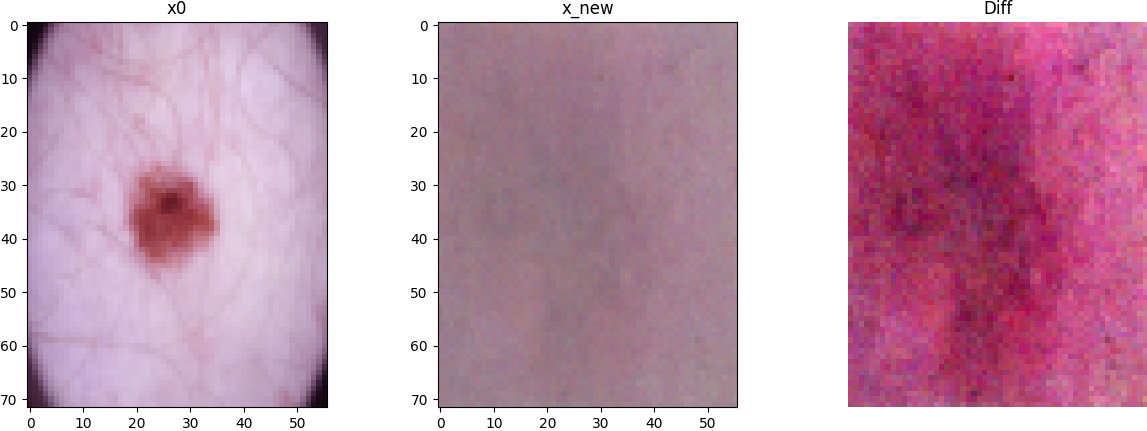
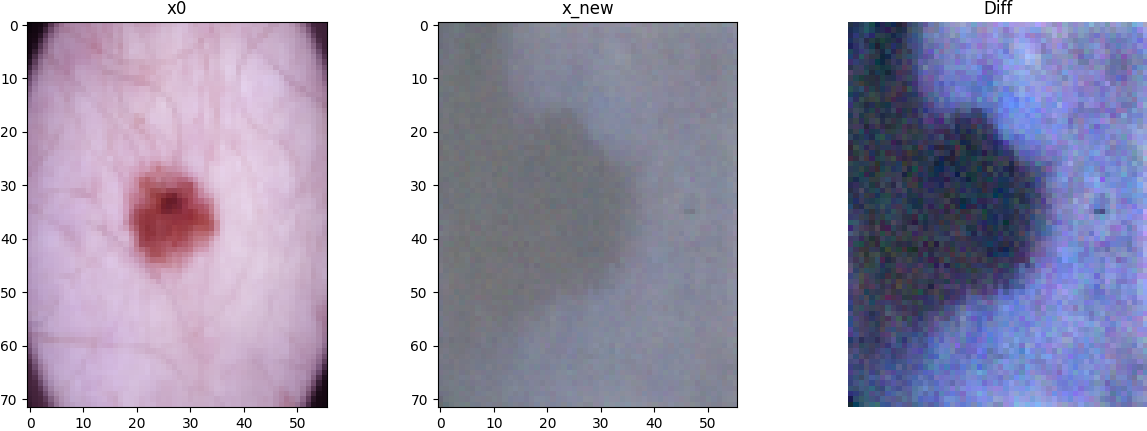
fixes

diff --git a/inference.py b/inference.py
@@ -14,6 +14,9 @@ from model import UNet
 
 from utils import *
 
+# clear cache 
+torch.cuda.empty_cache()
+
 
 # init
 device = torch.device('cuda' if torch.cuda.is_available() else 'cpu')
@@ -34,8 +37,8 @@ ddim = DiffusionImplicit(img_size=img_size, device=device)
 
 # 1. Get an image
 train_loader, val_loader, test_loader = prepare_dataloader(batch_size, label='shortcut', keep_label=1)
-images, labels  = next(iter(test_loader))
-L = torch.Tensor([100]).long().to(device)
+images, labels  = next(iter(val_loader))
+L = torch.Tensor([50,100,150,200,250,300,350,400,450]).long().to(device)
 x0 = images[0].unsqueeze(0).to(device) # add batch dimenstion
 
 # 2. DDPM forward process that image up to a timestep t: 1<L<T
@@ -47,34 +50,27 @@ model.eval()
 model.to(device)
 model.load_state_dict(torch.load('models/ddpm/weights.pt', map_location=device, weights_only=False)) # load the given model
 
-x_new = ddim.p_sample_loop(model=model, batch_size=xt.shape[0], partly_noised=xt, L=L.item())
+Lsize = L.shape[0]
+fig, axs = plt.subplots(Lsize, 4, figsize=(10,4*Lsize))
+x_new = torch.zeros_like(x0).repeat(Lsize,1,1,1)
+for i, l in enumerate(L):
+    x_new[i] = ddim.p_sample_loop(model=model, batch_size=1, partly_noised=xt[i].unsqueeze(0), L=l.item())
+    img1 = im_normalize(tens2image(x0.cpu()))
+    img2 = im_normalize(tens2image(xt[i].cpu()))
+    img3 = im_normalize(tens2image(x_new[i].cpu()))
+    diff_img = np.linalg.norm( img1 - img3, axis=2)
+    img4 = im_normalize( diff_img )
+
+    im1 = axs[i,0].imshow(img1)
+    im2 = axs[i,1].imshow(img2)
+    im3 = axs[i,2].imshow(img3)
+    im4 = axs[i,3].imshow(img4, cmap='jet')
+    fig.colorbar(im4, ax=axs[i,3])
 
 
-# 4. Calculate difference
-diff_img = (x_new - x0)**2
-
-
-
-fig, axs = plt.subplots(1,4, figsize=(20,5))
-
-# print(x0.shape, type(x0))
-# print(xt.shape, type(xt))
-# print(x_new.shape, type(x_new))
-# print(diff_img.shape, type(diff_img))
-
-
-im1 = axs[0].imshow(im_normalize(tens2image(x0.cpu())))
-fig.colorbar(im1, ax=axs[0])
-im2 = axs[1].imshow(im_normalize(tens2image(xt.cpu())))
-fig.colorbar(im2, ax=axs[1])
-im3 = axs[2].imshow(im_normalize(tens2image(x_new.cpu())))
-fig.colorbar(im3, ax=axs[2])
-im4 = axs[3].imshow(im_normalize(tens2image(diff_img.cpu())))
-fig.colorbar(im4, ax=axs[3])
-
-titles = ["Original", f"Noised to t={L.item()}", "Denoised", "Diff image"]
-for i, title in enumerate(titles):
-    axs[i].set_title(title)
+    titles = ["Original", f"Noised to t={l}", "Denoised", "Diff image"]
+    for j, title in enumerate(titles):
+        axs[i,j].set_title(title)
 
 plt.tight_layout()
 plt.savefig("assets/inference.png")

diff --git a/train.py b/train.py
@@ -31,7 +31,15 @@ def train(img_size, device='cpu', T=500, input_channels=3, channels=32, time_dim
           batch_size=100, lr=1e-3, num_epochs=30, experiment_name="ddpm", show=False):
     """Implements algrorithm 1 (Training) from the ddpm paper at page 4"""
     create_result_folders(experiment_name)
-    train_loader, val_loader, test_loader = prepare_dataloader(batch_size, label='shortcut', keep_label=0)
+
+    transform = transforms.Compose([
+                                transforms.Resize((img_size[0], img_size[1])), 
+                                transforms.ToTensor(),
+                                transforms.Normalize((0.5,), (0.5,)),
+                                # transforms.ColorJitter(brightness=0.3, contrast=0.3),
+                                transforms.RandomAffine(degrees=180)#, scale=(0.8,1.2))
+                 ])
+    train_loader, val_loader, test_loader = prepare_dataloader(batch_size, label='shortcut', keep_label=0, transform=transform)
 
     model = UNet(img_size=img_size, c_in=input_channels, c_out=input_channels, 
                  time_dim=time_dim,channels=channels, device=device).to(device)
@@ -82,7 +90,7 @@ def main():
     train(batch_size=batch_size , 
           device=device, 
           num_epochs=1000000,
-          img_size=np.array([size_w, size_h]))
+          img_size=np.array([size_h, size_w]))
 
 if __name__ == '__main__':
     main()

diff --git a/utils.py b/utils.py
@@ -22,16 +22,9 @@ batch_size = config['batch_size']
 size_w, size_h = config["size"][0], config["size"][1]
 img_size = np.array([size_w, size_h])
 
-def prepare_dataloader(batch_size=batch_size, val_batch_size=batch_size, label="lesion", keep_label=None):
+def prepare_dataloader(batch_size=batch_size, val_batch_size=batch_size, label="lesion", keep_label=None, transform=None):
     
-    transform = transforms.Compose([
-                                transforms.Resize((size_h, size_w)), 
-                                transforms.ToTensor(),
-                                transforms.ColorJitter(brightness=0.3, contrast=0.3),
-                                transforms.RandomAffine(degrees=180, scale=(0.8,1.2))
-                 ])
-    
-    dataset = LesionDataset(transform=None, data_path=data_path, label=label, keep_label=keep_label)
+    dataset = LesionDataset(transform=transform, data_path=data_path, label=label, keep_label=keep_label)
 
     train_dataset, val_dataset, test_dataset = random_split(
         dataset,

diff --git a/playground.py b/playground.py
@@ -39,11 +39,12 @@ if __name__ == '__main__':
     
     # dataset and dataloaders
     transform = transforms.Compose([
-        transforms.ToTensor(),                # from [0,255] to range [0.0,1.0]
-        transforms.Normalize((0.5,), (0.5,))  # range [-1,1]
-    ])
+                                transforms.Resize((img_size[1], img_size[0])), 
+                                transforms.ToTensor(),
+                                transforms.Normalize((0.5,), (0.5,)),
+                 ])
 
-    train_loader, val_loader, test_loader = prepare_dataloader(batch_size, label='shortcut', keep_label=1)
+    train_loader, val_loader, test_loader = prepare_dataloader(batch_size, label='shortcut', keep_label=1, transform=transform)
     images, labels  = next(iter(test_loader))
     example_images = np.stack([im_normalize(tens2image(images[idx])) for idx in range(batch_size)], axis=0)
     show(example_images, 'Example images', save_path='assets/example.png')

diff --git a/model.py b/model.py
@@ -32,7 +32,7 @@ class SelfAttention(nn.Module):
         )
 
     def forward(self, x):
-        x = x.view(-1, self.channels, int(self.size[0]) * int(self.size[1]) ).swapaxes(1, 2)
+        x = x.view(-1, self.channels, int(self.size[1]) * int(self.size[0]) ).swapaxes(1, 2)
         x_ln = self.ln(x)
         attention_value, _ = self.mha(x_ln, x_ln, x_ln)
         attention_value = attention_value + x
